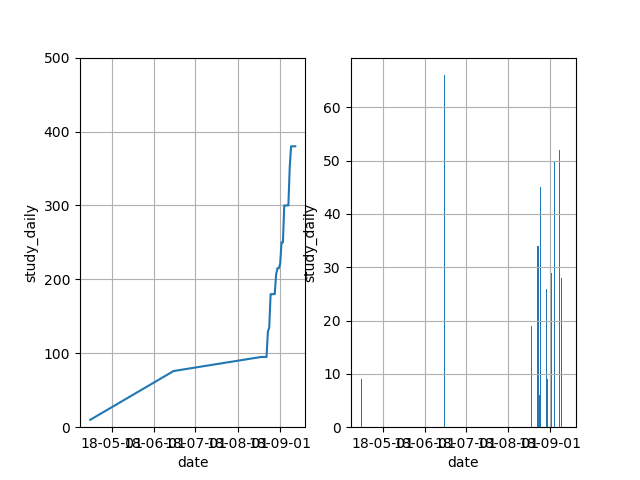
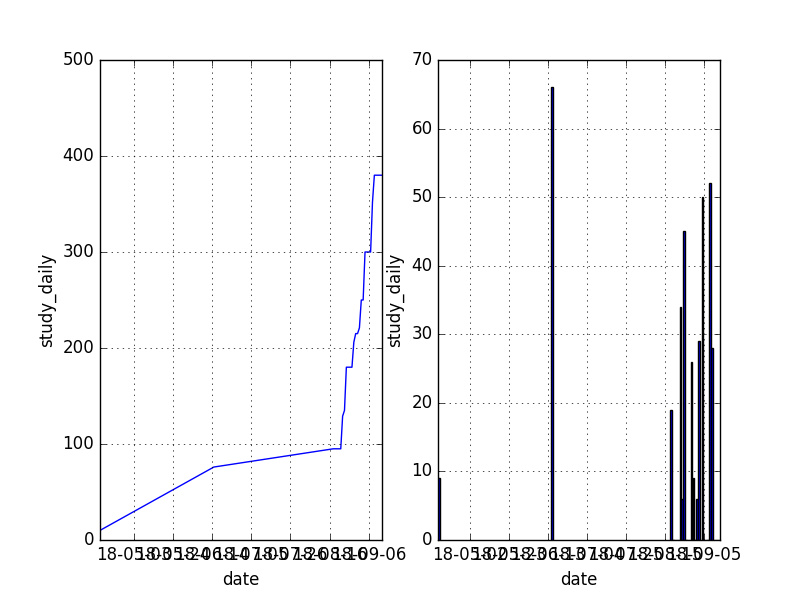
更新9.13学习进度，still 0

diff --git a/README.md b/README.md
@@ -29,6 +29,7 @@
     2018/9/10,深度学习-80,深度学习-80
     2018/9/11,深度学习-80,深度学习-80
     2018/9/12,深度学习-80,深度学习-80
+    2018/9/13,深度学习-80,深度学习-80
     >>>>>>>>>>>END<<<<<<<<<<<<](https://github.com/NemoHoHaloAi/machine-learning-plus/blob/master/study_daily.png)
 
 ## final learn plan
@@ -71,7 +72,7 @@
       1. 9.10:start 深度学习 80%,end 深度学习 80%;
       1. 9.11:start 深度学习 80%,end 深度学习 80%;
       1. 9.12:start 深度学习 80%,end 深度学习 80%;
-      1. 9.13:start,end;
+      1. 9.13:start 深度学习 80%,end 深度学习 80%;
       1. 9.14:start,end;
       1. 9.15:start,end;
       1. 9.16:start,end;
